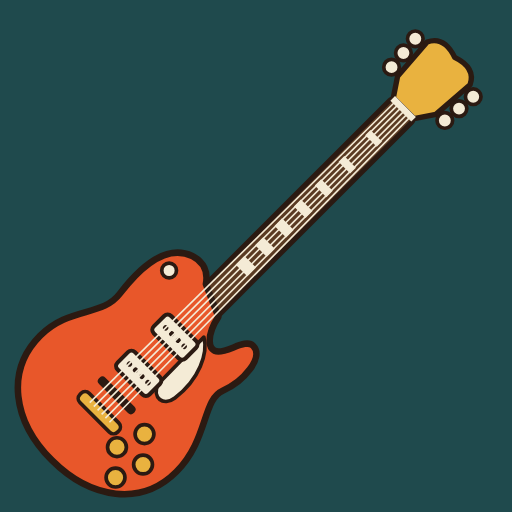
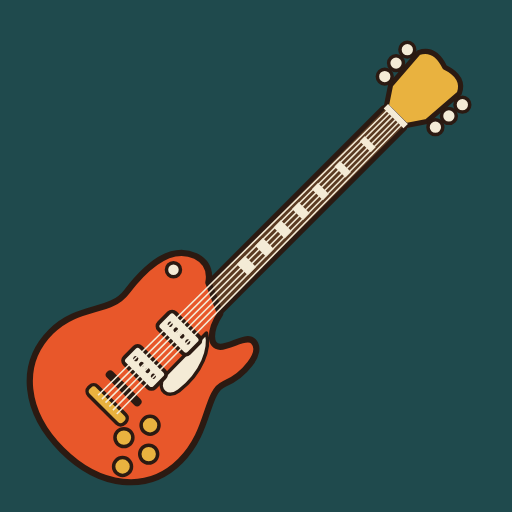
Konzerte: Gitarren-Symbol 5 % kleiner (Luft zu den Ecken)
Claude-Session: https://claude.ai/code/session_012mfQg7Lu9fMBAMQ8AP7srm

Changed region(s): [[0.0312, 0.0625, 0.9375, 0.9688], [0.375, 0.8438, 0.4062, 0.875]]

diff --git a/konzerte/index.html b/konzerte/index.html
@@ -11,8 +11,8 @@
 <meta name="apple-mobile-web-app-title" content="Konzerte">
 <meta name="apple-mobile-web-app-status-bar-style" content="default">
 <link rel="manifest" href="manifest.webmanifest">
-<link rel="apple-touch-icon" href="icon-180.png?v=2">
-<link rel="icon" type="image/png" href="icon-180.png?v=2">
+<link rel="apple-touch-icon" href="icon-180.png?v=3">
+<link rel="icon" type="image/png" href="icon-180.png?v=3">
 <title>Konzerte in der großen Stadt</title>
 <style>
 @font-face{font-family:Archivo;font-weight:400;font-display:swap;src:url(fonts/archivo-latin-400-normal.woff2) format("woff2")}
